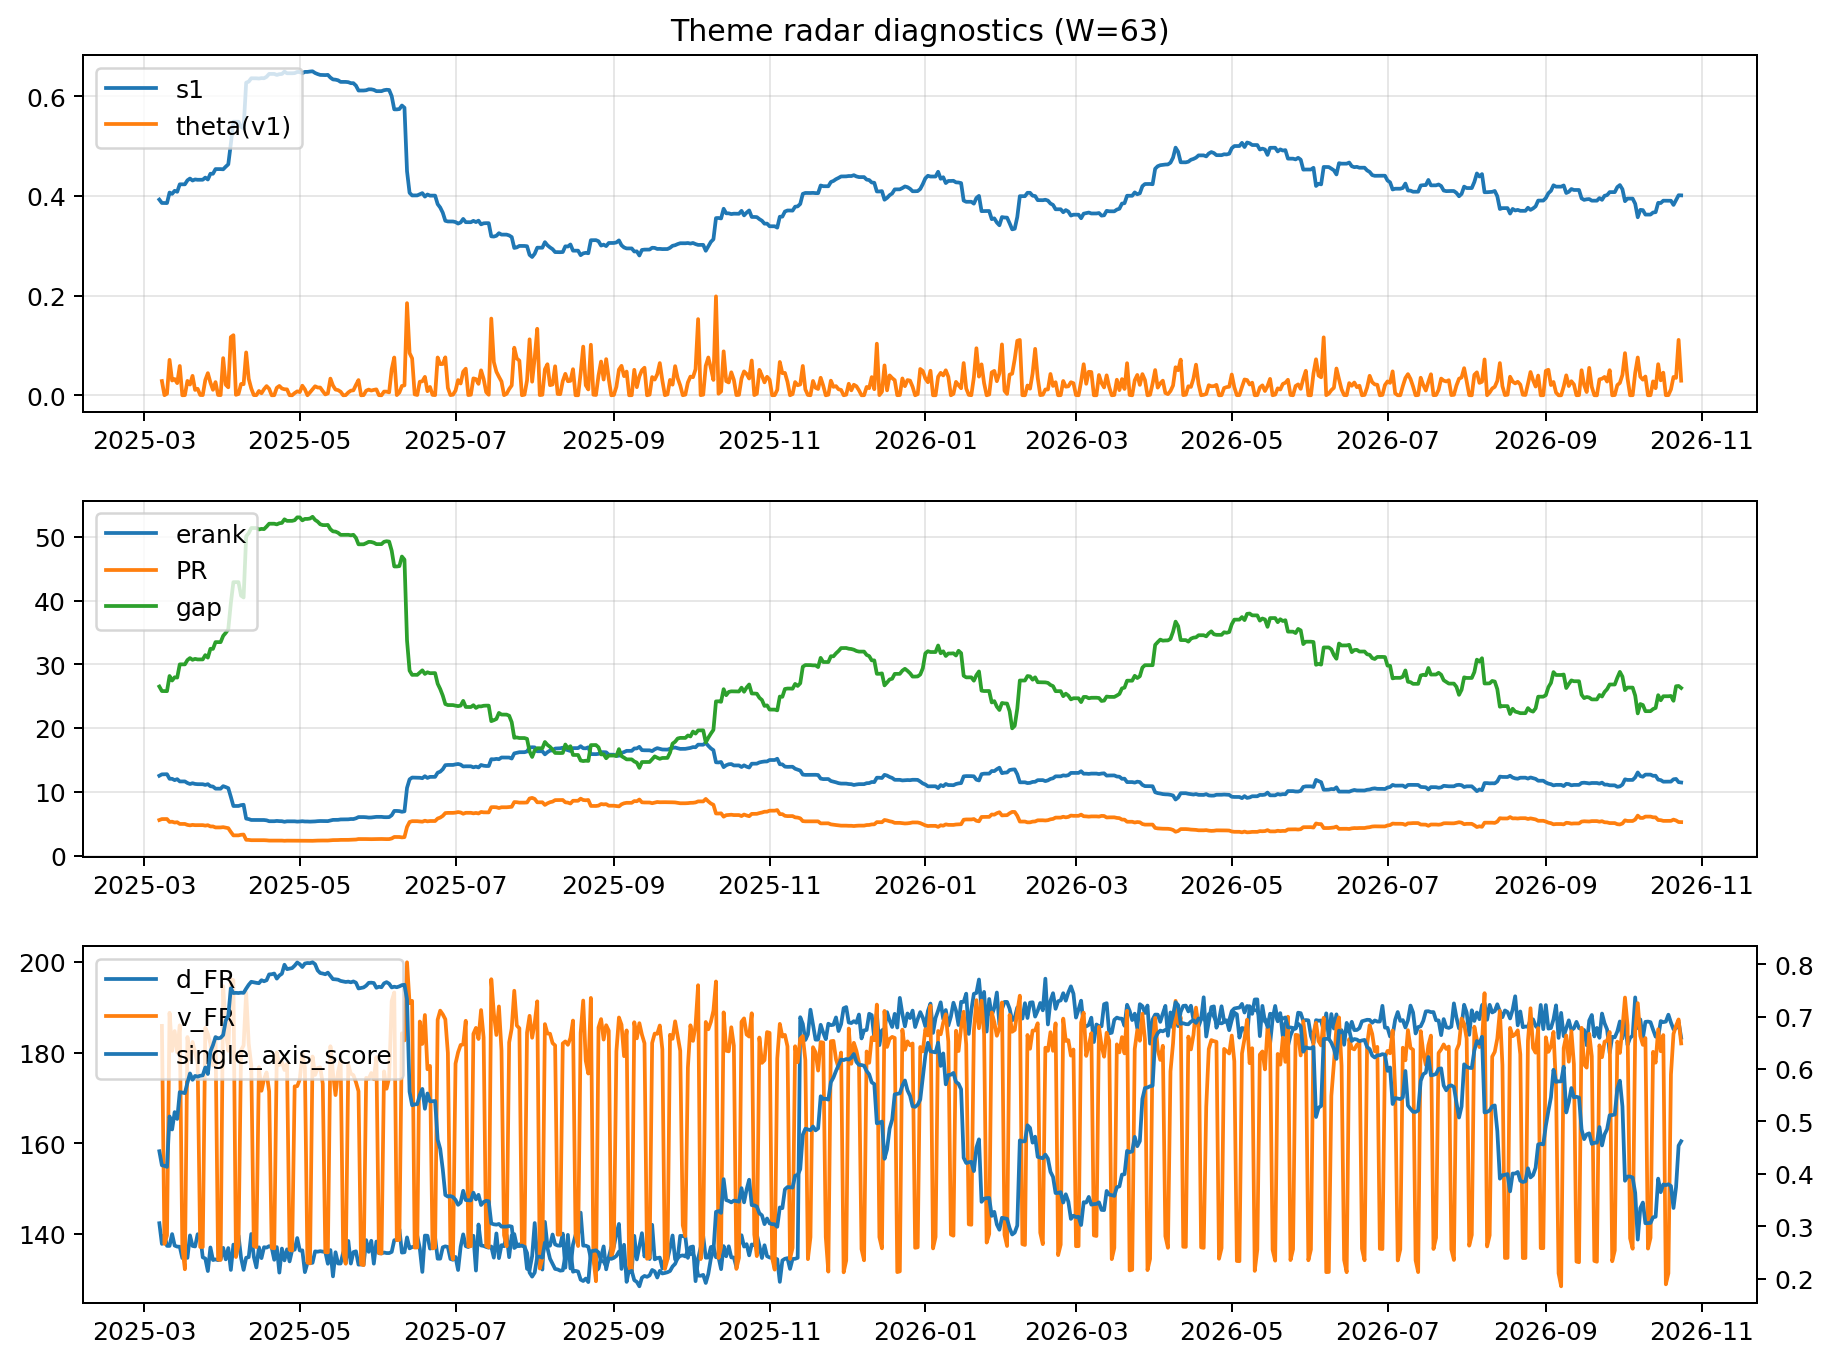
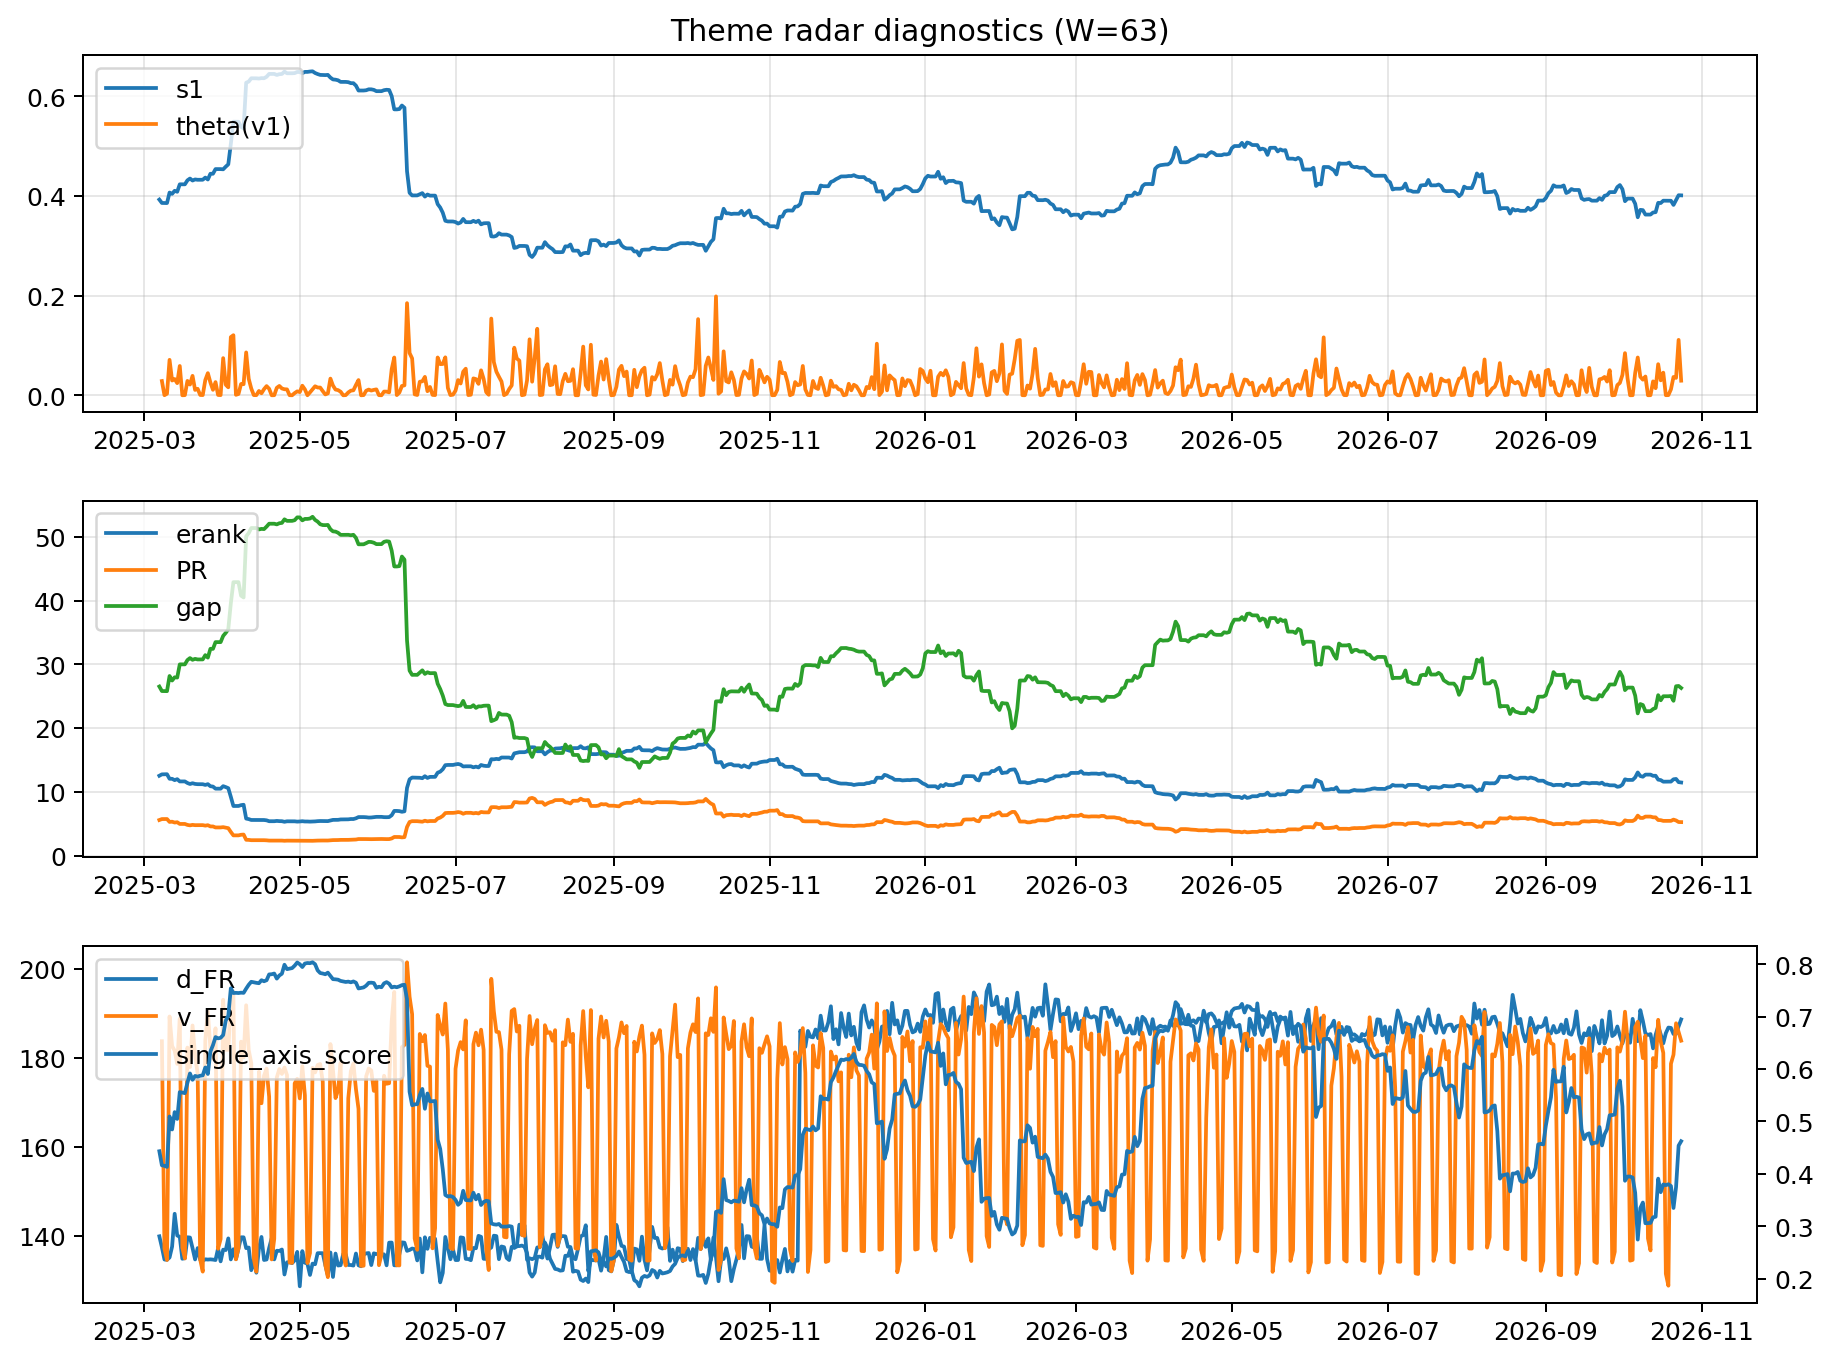
log: 2026-10-24 | sha256:56f3ed242bb47ffc3f58de521574b51729f9be1a823f55149ff476eb9a47b189

diff --git a/logs/2026-10-24.md b/logs/2026-10-24.md
@@ -3,43 +3,43 @@
 ![diagnostic W63](../assets/diagnostic/2026-10-24_W63.png)
 
 ## Leaders (v1) — W=63
-- **Nuclear_Uranium** (0.0776571004360234)
-- Semis (0.0681442465638461)
-- Quantum (0.0568591221998102)
+- **Nuclear_Uranium** (0.0776570957456201)
+- Semis (0.0681442399276404)
+- Quantum (0.0568591197078913)
 
 ## Challengers — W=63
-**v2:** Rates (0.1352610485790491), Semis (0.0906958628055745), Credit (0.0588221092679548)
-**v3:** Software_Cloud (0.1108808656473792), Grid_Power (0.0729966707287398), Cyber (0.0716444759443492)
+**v2:** Rates (0.1352610925802087), Semis (0.0906959204908501), Credit (0.0588220632400157)
+**v3:** Software_Cloud (0.1108808848673566), Grid_Power (0.0729966594443947), Cyber (0.0716445122534565)
 
 ## Migration (20D slope) — W=63
 **Top risers:**
-- axis_MegaCap_AI: 0.0008192590345997
-- axis_Crypto: 0.0005895322276295
-- axis_Software_Cloud: 0.0005349451117169
-- axis_Cyber: 0.0004403480825084
-- axis_Sector_ConsStap: 0.0003721827987425
-- axis_Metals: 0.0002371227347425
-- axis_Semis: 0.0001782346518712
-- axis_Critical_Minerals: 0.0001084997926169
-- axis_Nuclear_Uranium: 8.958075052410214e-05
-- axis_Vol: 7.635548042896099e-05
+- axis_MegaCap_AI: 0.0008192586231728
+- axis_Crypto: 0.000589531743198
+- axis_Software_Cloud: 0.0005349449629526
+- axis_Cyber: 0.0004403478444246
+- axis_Sector_ConsStap: 0.0003721826279354
+- axis_Metals: 0.000237122732532
+- axis_Semis: 0.0001782335360168
+- axis_Critical_Minerals: 0.00010849982942
+- axis_Nuclear_Uranium: 8.958093179319304e-05
+- axis_Vol: 7.635540897842308e-05
 
 **Top fallers:**
-- axis_USD: -0.0001209175037126
-- axis_Equity_US: -0.0001352537175713
-- axis_Commodities: -0.0001533801106393
-- axis_Genomics_Bio: -0.0001592568595044
-- axis_Sector_RealEstate: -0.0001618555786046
-- axis_Equity_ExUS: -0.0001703426371001
-- axis_Sector_Materials: -0.0001893803858235
-- axis_Sector_Utilities: -0.0002444714034073
-- axis_Credit: -0.0004081453119464
-- axis_Rates: -0.0013816262055771
+- axis_USD: -0.0001209172737954
+- axis_Equity_US: -0.0001352538402685
+- axis_Commodities: -0.0001533801540684
+- axis_Genomics_Bio: -0.0001592565224239
+- axis_Sector_RealEstate: -0.0001618554385764
+- axis_Equity_ExUS: -0.0001703427758186
+- axis_Sector_Materials: -0.0001893801814435
+- axis_Sector_Utilities: -0.0002444711518005
+- axis_Credit: -0.0004081473591142
+- axis_Rates: -0.0013816235166863
 
 ## Risk line (W=63)
-- s1: 0.4010516949134954
-- theta_v1: 0.0293369204513472
-- v_FR: 182.0345718116278
+- s1: 0.4010517113663989
+- theta_v1: 0.0293369081980382
+- v_FR: 183.78385093406712
 - single_axis_score: 0.4623115577889446
 
 ## Interpretation
@@ -48,7 +48,7 @@
 - Action: Tomorrow watchlist: MegaCap_AI, Crypto, Software_Cloud, Cyber, Sector_ConsStap + v2_top1=Rates
 - Action: Hedge note: normal correlation stability.
 
-- Percentiles (W=63 history): vfr_pct=0.60, theta_pct=0.65, s1_pct=0.46, score_pct=0.43.
+- Percentiles (W=63 history): vfr_pct=0.72, theta_pct=0.65, s1_pct=0.46, score_pct=0.43.
 
 ---
[2 lines of base64/hex data omitted]
